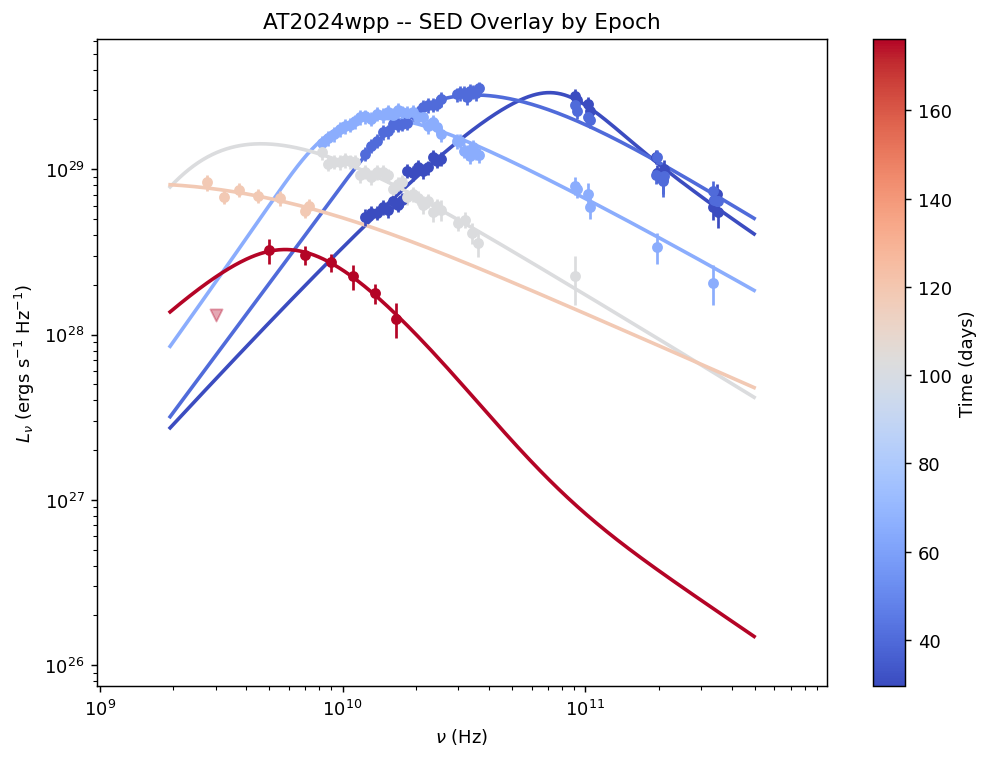
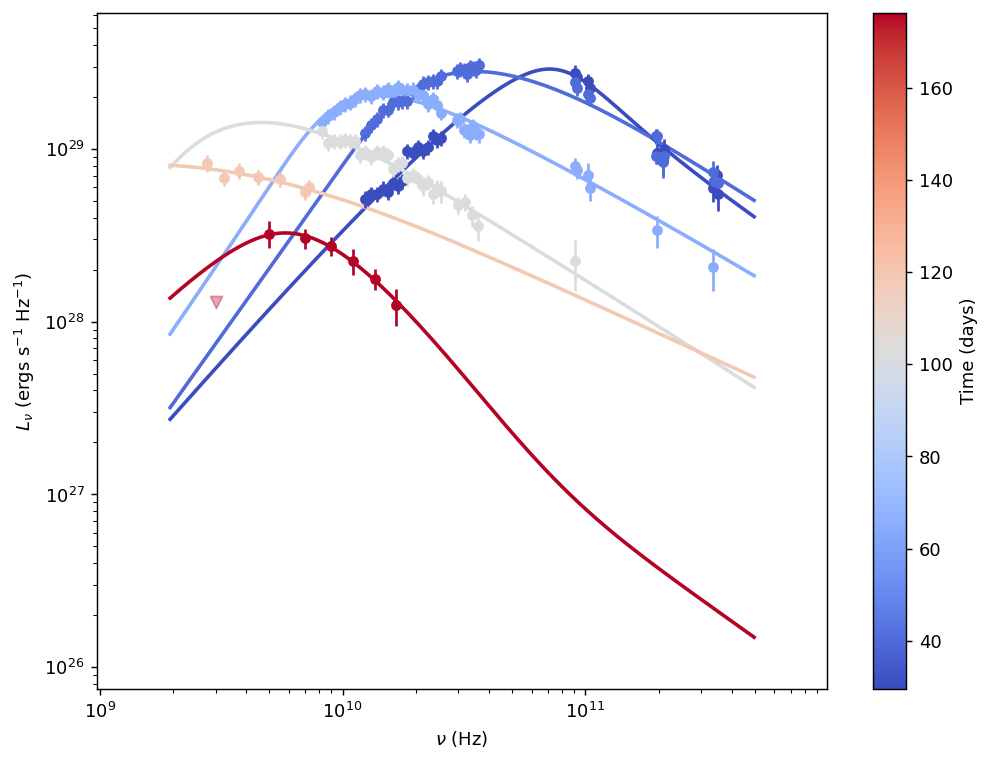
looking at specific slopes3

diff --git a/runSampler.py b/runSampler.py
@@ -1410,7 +1410,7 @@ def make_sed_collage(cfg, fixed):
 # a visual comparison aid -- add more (source, epoch) entries as needed. ---
 OVERLAY_REFERENCE_SLOPES = {
     #"dbl": {3: [-1.0, -1.5, -2.0, -2.5, -3.0]},
-    "dbl": {3: [-1.0]},
+    "dbl": {3: [-1]},
 }
 
 
@@ -1517,10 +1517,11 @@ def make_sed_overlay_plot(cfg, fixed):
                                          np.array([anchor_x]), ep["T"], ep["z"],
                                          ep["d_L"], fixed, cfg["therm_el"],
                                          cfg["pl_el"])[0] * Lnu_conv
+                nu_line = nu_grid[nu_grid >= anchor_x]
                 for m in ref_slopes:
-                    ref_curve = anchor_y * (nu_grid / anchor_x) ** m
-                    ax.plot(nu_grid, ref_curve, color=color, ls="--", lw=1.3,
-                            alpha=0.85, label=f"Power law (nu^{m})")
+                    ref_curve = anchor_y * (nu_line / anchor_x) ** m
+                    ax.plot(nu_line, ref_curve, color=color, ls="--", lw=1.3,
+                            alpha=0.85, label=rf"Power law ($\nu^{{{m}}}$)")
 
         curves_for_range.append(Lnu_best)
         flux_for_range.append(flux_true_det)
